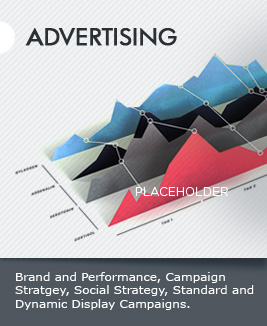
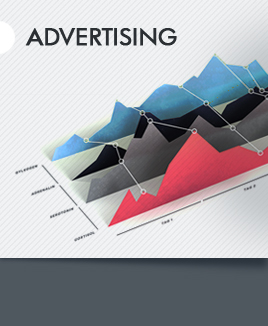
capabilities to text

diff --git a/public/stylesheets/style.css b/public/stylesheets/style.css
@@ -509,7 +509,15 @@ h3 {
 }
 #capabilities .ability {}
 #capabilities .ability img {}
-#capabilities .ability p {}
+#capabilities .ability p {
+	color: #FFFFFF;
+    line-height: 14px;
+    margin: 11px;
+    padding-top: 30px;
+    position: absolute;
+    top: 229px;
+    width: 245px;
+}
 
 /* Clients */
 #clients {
@@ -921,15 +929,6 @@ clear: both;
     font-size: 27px;
     line-height: 35px;
     margin: 10px 40px 10px 0;
-}
-#capabilities p {
-    border-bottom: 1px solid #B9BDBE;
-    border-top: 1px solid #B9BDBE;
-    color: #7E848B;
-    margin-top: 30px;
-    margin-right: 30px;
-    padding-bottom: 30px;
-    padding-top: 30px;
 }
 
 #process {
